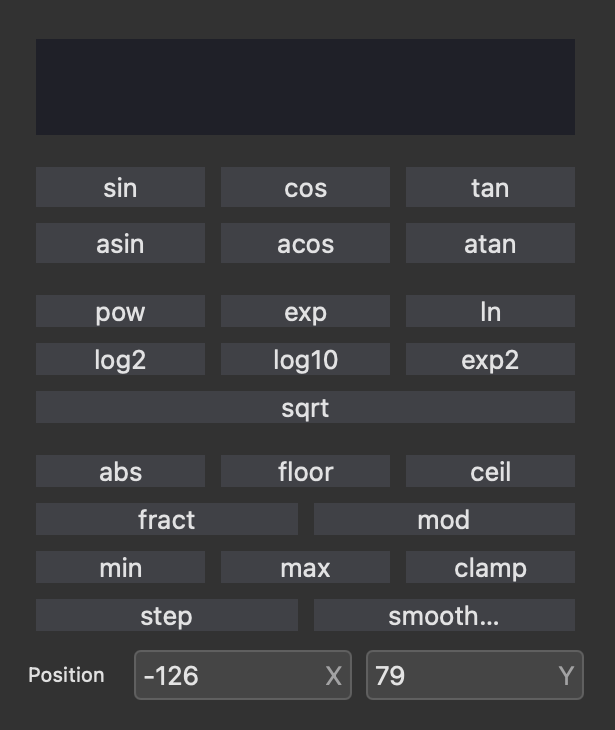
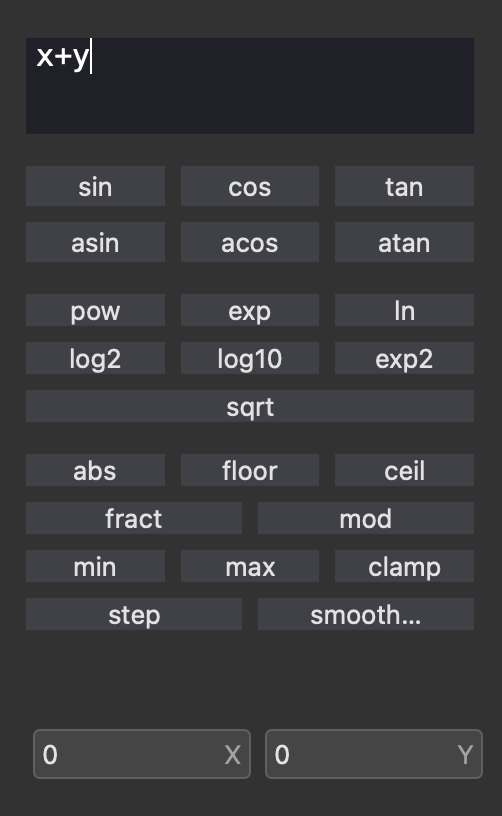
Updated nodes.md
- Finished math section

diff --git a/docs/nodes.md b/docs/nodes.md
@@ -282,7 +282,9 @@ constant | description
 
 The `expr` node is the most versatile node. It does math and basic programming operations.
 
-You enter equations into the `inspector panel`, pictured below.
+Double clicking on any input will create an `expr` node.
+
+You enter equations into the `inspector panel`, pictured below. You do not need to add an `=` sign after your expression.
 
 <img src="img/nodes_reference/math/expr/expr_inspector.png"
 alt="expr node inspector panel"
@@ -316,8 +318,95 @@ Expressions like the `1/3` in `x * (1/3)` are evaluated once during start-up and
 
 
 ###sum
+
+<img src="img/nodes_reference/math/sum/sum_node.png"
+alt="sum node"
+width="200"/>
+
+input | signal
+:-- | :--
+`in` | `any`
+`in` | `any`
+`...` | `any`
+
+output | signal
+:-- | :--
+`sum` | `any`
+
+**description**
+
+The `sum` node adds two or more signals together.
+
+In the `inspector channel` you can specify how many channels you want to add together. The maximum is `256`.
+
+<img src="img/nodes_reference/math/sum/sum_inspector.png"
+alt="sum inspector"
+width="200"/>
+
+When you increase the number of channels, the number of inputs increases accordingly.
+
+<img src="img/nodes_reference/math/sum/sum_multiple_inputs.png"
+alt="sum multiple inputs"
+width="200"/>
+
+
 ###product
+
+<img src="img/nodes_reference/math/product/product_node.png"
+alt="product node"
+width="200"/>
+
+input | signal
+:-- | :--
+`in` | `any`
+`in` | `any`
+`...` | `any`
+
+output | signal
+:-- | :--
+`out` | `any`
+
+**description**
+
+The `product` node multiplies two or more signals together.
+
+In the `inspector channel` you can specify how many channels you want to multiply together. The maximum is `256`.
+
+<img src="img/nodes_reference/math/product/product_inspector.png"
+alt="product inspector"
+width="200"/>
+
+When you increase the number of channels, the number of inputs increases accordingly.
+
+<img src="img/nodes_reference/math/product/product_multiple_inputs.png"
+alt="product multiple inputs"
+width="200"/>
+
+
 ###random
+
+<img src="img/nodes_reference/math/random/random_node.png"
+alt="random node"
+width="200"/>
+
+input | signal
+:-- | :--
+`Seed` | `any`
+
+output | signal
+:-- | :--
+`out` | `mod`
+
+The `random` node outputs a new random number between `0 and 1` for every sample. In other words, it produces `white noise.`
+
+The `Seed` value can be changed in the `inspector panel`, pictured below. Changing the `Seed` value is necessary in cases where you have two or more random nodes in a patch and want them to produce a different string of random numbers.
+
+<img src="img/nodes_reference/math/random/random_inspector.png"
+alt="random node"
+width="200"/>
+
+If the `Seed` value remains the same, every time the patch is reopened, the same string of random numbers will be produced.
+
 
 
 
